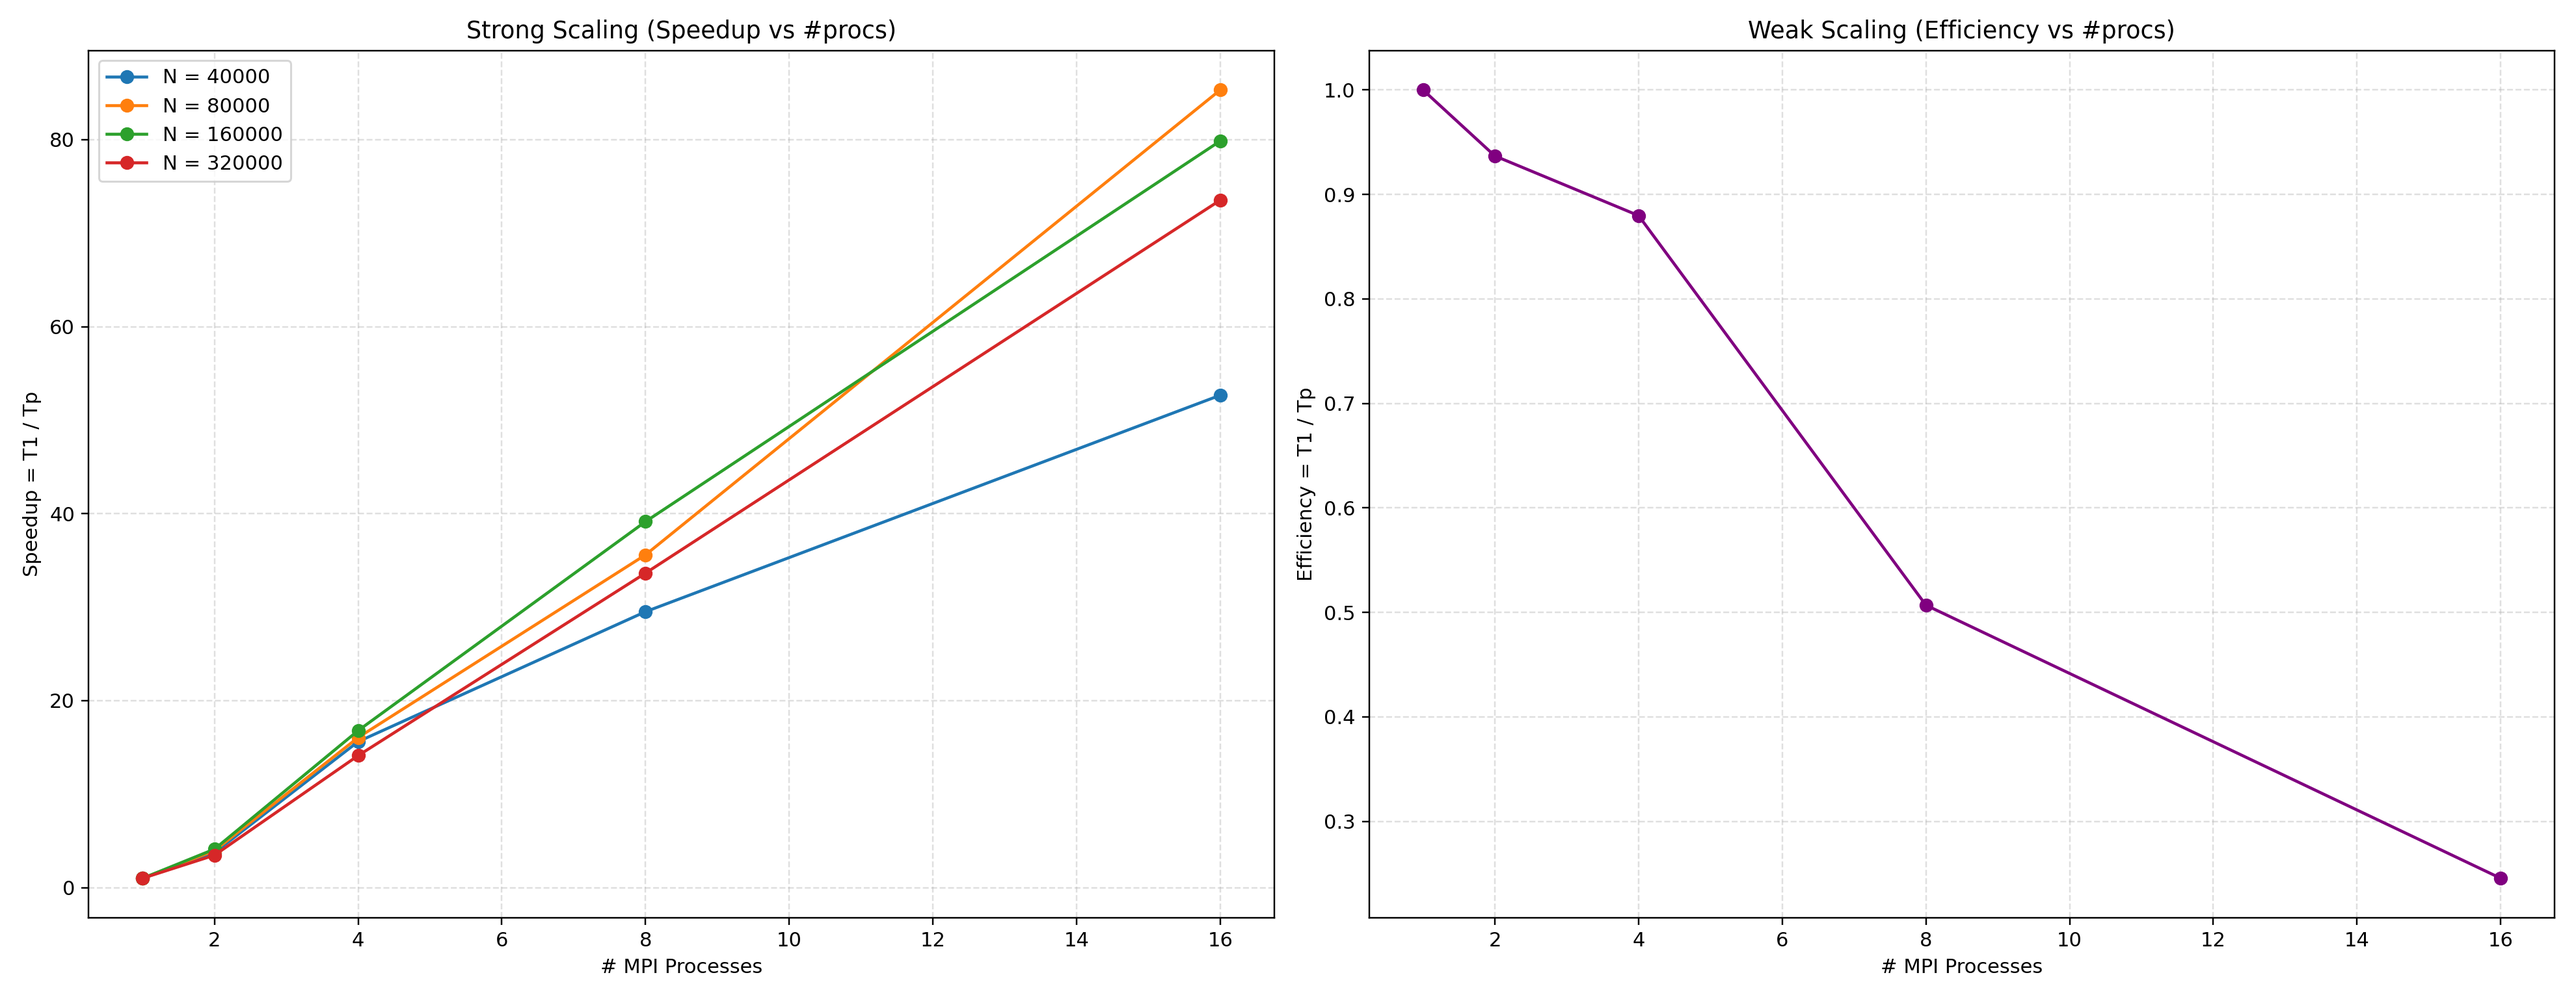
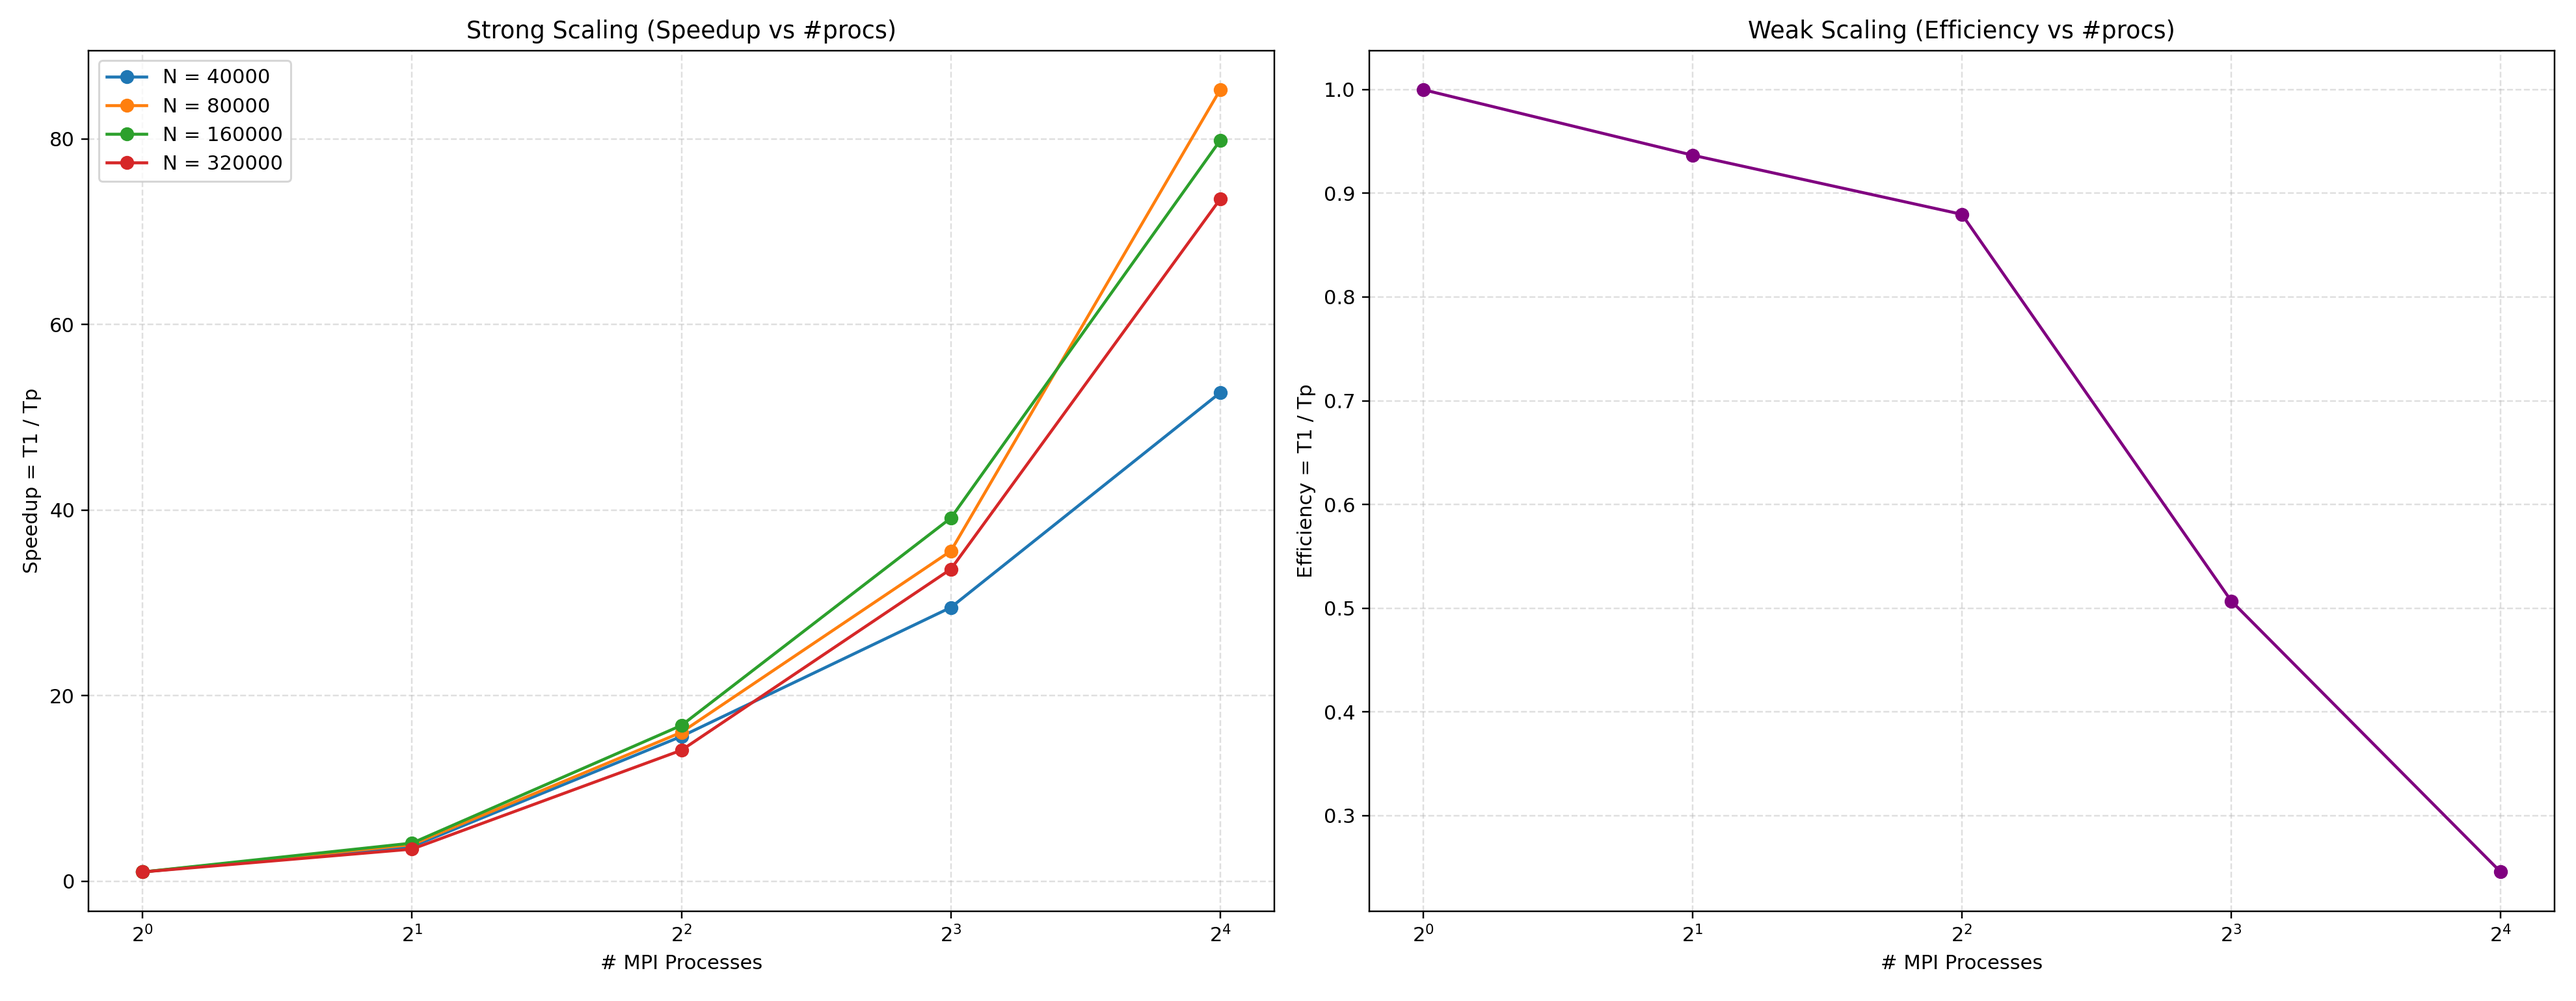
add weak/stromng scalability analysis to as coarse + log correction

diff --git a/tools/scalability.py b/tools/scalability.py
@@ -1,4 +1,3 @@
-#!/usr/bin/env python3
 """
 Create ONE image with two subplots:
 - LEFT: Strong scaling speedup
@@ -16,10 +15,6 @@ import matplotlib.pyplot as plt
 import sys
 from pathlib import Path
 
-
-# ------------------------------------------------------------
-# CSV Loader
-# ------------------------------------------------------------
 def load_data(csv_path):
     df = pd.read_csv(csv_path)
     df["n"] = df["n"].astype(int)
@@ -27,11 +22,6 @@ def load_data(csv_path):
     df["time_solve"] = df["time_solve"].astype(float)
     return df
 
-
-# ------------------------------------------------------------
-# STRONG SCALING: fixed N, vary #procs
-# speedup(p) = T(1) / T(p)
-# ------------------------------------------------------------
 def compute_strong_scaling(df):
     strong = {}
 
@@ -50,16 +40,9 @@ def compute_strong_scaling(df):
 
     return strong
 
-
-# ------------------------------------------------------------
-# WEAK SCALING: N proportional to #procs
-# efficiency(p) = T(1) / T(p)
-# Weak CSV should contain measurements for increasing N with p.
-# ------------------------------------------------------------
 def compute_weak_scaling(df):
     weak = {}
 
-    # baseline T(1) from weak CSV
     base = df[df["nprocs"] == 1]["time_solve"].values
     if len(base) == 0:
         print("WARNING: weak CSV missing nprocs=1 baseline")
@@ -74,14 +57,10 @@ def compute_weak_scaling(df):
     return weak
 
 
-# ------------------------------------------------------------
-# Plot 2 subpanels
-# ------------------------------------------------------------
 def plot_two_panels(strong, weak, out_path):
 
     fig, (ax1, ax2) = plt.subplots(1, 2, figsize=(18, 7))
 
-    # ---------- STRONG SCALING ----------
     for N, data in strong.items():
         ax1.plot(
             data["procs"],
@@ -93,11 +72,11 @@ def plot_two_panels(strong, weak, out_path):
 
     ax1.set_title("Strong Scaling (Speedup vs #procs)")
     ax1.set_xlabel("# MPI Processes")
+    ax1.set_xscale("log", base=2)
     ax1.set_ylabel("Speedup = T1 / Tp")
     ax1.grid(True, linestyle="--", alpha=0.4)
     ax1.legend()
 
-    # ---------- WEAK SCALING ----------
     procs = sorted(weak.keys())
     eff = [weak[p] for p in procs]
 
@@ -105,6 +84,7 @@ def plot_two_panels(strong, weak, out_path):
 
     ax2.set_title("Weak Scaling (Efficiency vs #procs)")
     ax2.set_xlabel("# MPI Processes")
+    ax2.set_xscale("log", base=2)
     ax2.set_ylabel("Efficiency = T1 / Tp")
     ax2.grid(True, linestyle="--", alpha=0.4)
 
@@ -112,10 +92,6 @@ def plot_two_panels(strong, weak, out_path):
     fig.savefig(out_path, dpi=220)
     print(f"[OK] Saved: {out_path}")
 
-
-# ------------------------------------------------------------
-# Main
-# ------------------------------------------------------------
 def main():
     if len(sys.argv) != 3:
         print("Usage: python plot_scaling.py strong.csv weak.csv")

diff --git a/tools/mpi-barplot-speedup.py b/tools/mpi-barplot-speedup.py
@@ -127,6 +127,7 @@ def plot_grouped_bars(
     ax.set_xticklabels([str(n) for n in ns])
 
     ax.set_xlabel("Problem size n")
+    ax.set_xscale("log", base=2)
     ax.set_ylabel("Speedup vs AS (1 proc, no coarse)")
     ax.set_title(title)
     ax.legend()
